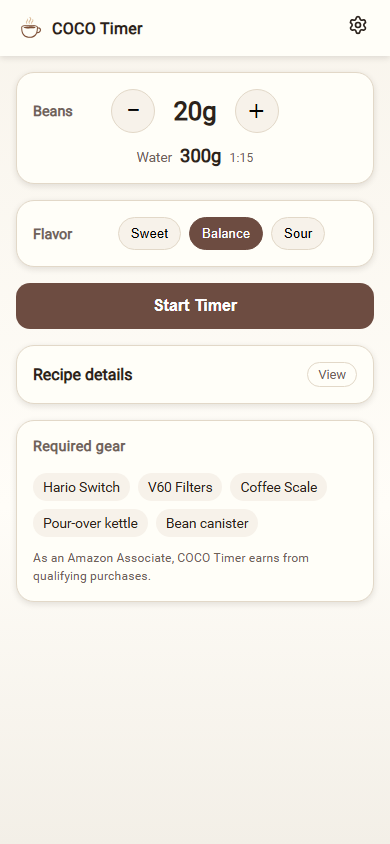
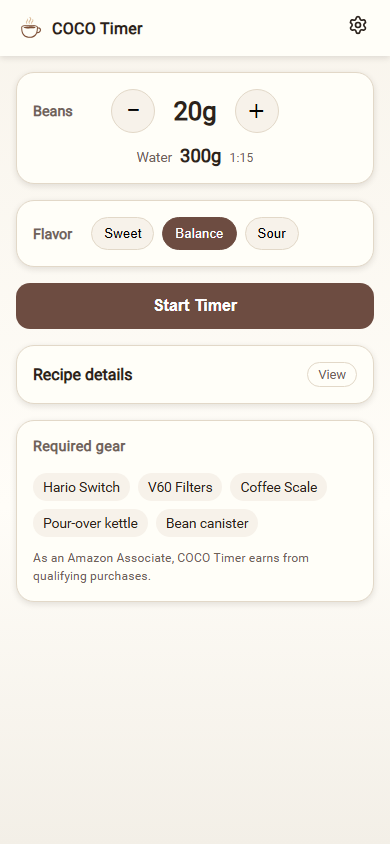
Keep COCO timer layout stable without animation

Changed region(s): [[0.2769, 0.2464, 0.8, 0.3081]]

diff --git a/e2e/timer.spec.ts b/e2e/timer.spec.ts
@@ -34,6 +34,12 @@ test("setup carries the chosen amount into a brew that reaches completion", asyn
   await expect(page.getByText("300g", { exact: true })).toBeVisible();
   await expect(page.getByText("1:15", { exact: true })).toBeVisible();
   await expect(page.getByRole("img", { name: "Timeline" })).toHaveCount(0);
+  const sweetBox = await page.getByRole("button", { name: "Sweet", exact: true }).boundingBox();
+  const sourBox = await page.getByRole("button", { name: "Sour", exact: true }).boundingBox();
+  expect(sweetBox).not.toBeNull();
+  expect(sourBox).not.toBeNull();
+  const flavorGroupCenter = (sweetBox!.x + sourBox!.x + sourBox!.width) / 2;
+  expect(Math.abs(flavorGroupCenter - 195)).toBeLessThan(1);
 
   await page.getByText("View", { exact: true }).click();
   await expect(page.getByText("STEP 5", { exact: true })).toBeVisible();
@@ -56,9 +62,11 @@ test("setup carries the chosen amount into a brew that reaches completion", asyn
   await expect(mainCard.getByRole("img", { name: "Timeline" })).toBeVisible();
   await expect(mainCard.getByRole("status", { name: "First" })).toBeVisible();
   await expect(page.getByRole("img", { name: "Timeline" })).toHaveCount(1);
+  const heightWithPreview = (await mainCard.boundingBox())?.height;
 
   await page.clock.runFor(6_000);
   await expect(mainCard.getByRole("status", { name: "First" })).toHaveCount(0);
+  expect((await mainCard.boundingBox())?.height).toBe(heightWithPreview);
   const before = await remaining(page).innerText();
   await page.clock.runFor(2_000);
   await expect(remaining(page)).not.toHaveText(before);

diff --git a/src/features/timer/components/StepCard.module.css b/src/features/timer/components/StepCard.module.css
@@ -1,14 +1,11 @@
 .cardFrame > :global(.card) {
-  width: 100%;
-}
-
-.cardFrameWithPreview > :global(.card) {
   display: flex;
+  width: 100%;
   min-height: 320px;
   flex-direction: column;
 }
 
-.cardFrameWithPreview > :global(.card) > :last-child {
+.cardFrame > :global(.card) > :last-child {
   margin-top: auto;
 }
 

diff --git a/src/app/routes/SetupPage.module.css b/src/app/routes/SetupPage.module.css
@@ -60,9 +60,13 @@
 
 .flavorRow {
   display: grid;
-  grid-template-columns: auto minmax(0, 1fr);
+  grid-template-columns: 1fr auto 1fr;
   align-items: center;
   gap: 14px;
+}
+
+.flavorRow::after {
+  content: "";
 }
 
 .btnPrimary {

diff --git a/docs/review/shared-timer/README.md b/docs/review/shared-timer/README.md
@@ -14,9 +14,11 @@ The setup screen now aligns the bean label with its controls, shows the calculat
 
 The timer header uses bean, water, flavor order. The cool-water instruction is explicitly split into two lines in both the current instruction and animation preview. The taller preview card keeps its label, animation, description, and progress bar separate. The finished card has no step counter or reset button.
 
-| Cool-step preview | Cool step | Finished |
-| --- | --- | --- |
-| ![COCO cool-step preview](coco-cool-preview-ja.png) | ![COCO cool step](coco-cool-step-ja.png) | ![COCO finished](coco-finished.png) |
+The three flavor buttons are centered as a group. The main timer card keeps the same 320 px minimum height when animation is hidden, so the surrounding controls do not jump.
+
+| Animation hidden | Cool-step preview | Cool step | Finished |
+| --- | --- | --- | --- |
+| ![COCO timer with animation hidden](coco-running-animation-hidden.png) | ![COCO cool-step preview](coco-cool-preview-ja.png) | ![COCO cool step](coco-cool-step-ja.png) | ![COCO finished](coco-finished.png) |
 
 | State | Neo Brew Timer | COCO Timer |
 | --- | --- | --- |
